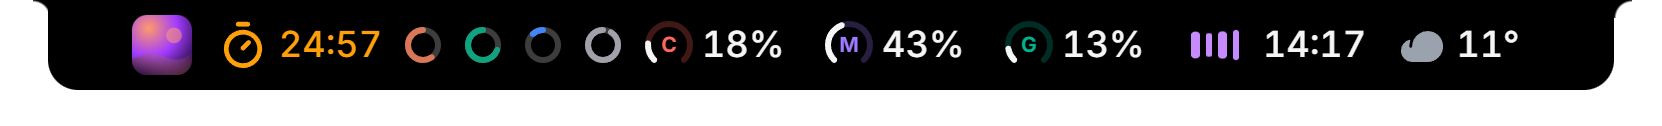
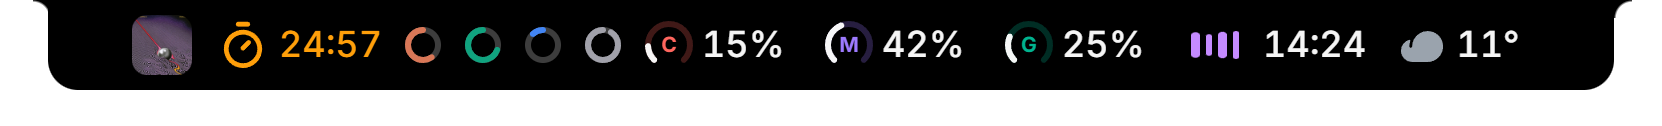
Show Let It Happen with its cover and read its lyrics from a file
The cover is used with the label's permission, at 600 px in site/public/covers, and the demo points at it one folder up from /demo/. Lyrics for the real song come only from src/dev/lyrics/let-it-happen.lrc when that file is added; without it the song has none. The home page's panels and closed row are captured again.

diff --git a/src/dev/demo-data.ts b/src/dev/demo-data.ts
@@ -91,8 +91,16 @@ function withWords(lines: Line[]): string {
 const plain = (lines: Line[]) => lines.map(([t, text]) => `${stamp(t)}${text}`).join("\n");
 const translated = (lines: Line[]) => lines.map(([t, , tr]) => `${stamp(t)}${tr ?? ""}`).join("\n");
 
-/** What the lyric sources would have answered, by song title; word timing on the first, a translation on the third. */
+/**
+ * Lyrics of the real song in the demo, from a synced .lrc file its owner adds as src/dev/lyrics/let-it-happen.lrc (file name:
+ * the title in lower case, words joined by "-"). With no file, the song simply has no lyrics.
+ */
+const lyricFiles = import.meta.glob("./lyrics/*.lrc", { eager: true, query: "?raw", import: "default" }) as Record<string, string>;
+
+/** What the lyric sources would have answered, by song title; word timing on the first made-up song, a translation on the third. */
 export function demoLyrics(title: string): Found | null {
+  const file = lyricFiles[`./lyrics/${title.toLowerCase().replace(/\s+/g, "-")}.lrc`];
+  if (file) return { lrc: file, instrumental: false };
   if (title === "Neon Harbour") return { lrc: withWords(NEON_HARBOUR), instrumental: false };
   if (title === "Slow Orange") return { lrc: plain(SLOW_ORANGE), instrumental: false };
   if (title === "Papel y Luz") return { lrc: plain(PAPEL_Y_LUZ), instrumental: false, translation: translated(PAPEL_Y_LUZ) };

diff --git a/src/dev/showcase-data.ts b/src/dev/showcase-data.ts
@@ -37,11 +37,12 @@ export const showcaseTracks = [
 ];
 
 /**
- * The demo's tracks. The first is a real song, named only: its lyrics are not ours to show, so it has none here and its cover is
- * drawn. The others are made up, so the lyrics in src/dev/demo-data.ts are our own.
+ * The demo's tracks. The first is a real song, shown with its label's permission: the cover is served by the website
+ * (site/public/covers, one folder up from /demo/), and its lyrics come only from a file the owner adds (src/dev/demo-data.ts).
+ * The others are made up, so their lyrics are our own.
  */
 export const demoTracks = [
-  { title: "Let It Happen", artist: "Tame Impala", artwork: cover("#ff9a6b", "#a23cff", "#1a0630"), accent: "#c58bff", duration: 467 },
+  { title: "Let It Happen", artist: "Tame Impala", artwork: "../covers/let-it-happen.webp", accent: "#c58bff", duration: 467 },
   { title: "Neon Harbour", artist: "Lumen Drift", artwork: cover("#ff8ad8", "#7b3fe4", "#140833"), accent: "#d58bff", duration: 214 },
   { title: "Slow Orange", artist: "Marlo Vey", artwork: cover("#ffd27a", "#e8642c", "#3a1206"), accent: "#ff9f5a", duration: 187 },
   { title: "Papel y Luz", artist: "Kita Moru", artwork: cover("#7affd8", "#1f8fa8", "#04202a"), accent: "#5ce1e6", duration: 232 },
